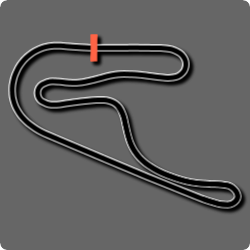
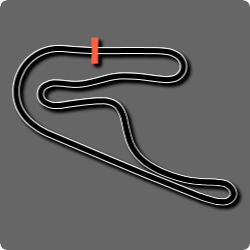
Added option to change dot size on the Track Map

Changed region(s): [[0.028, 0.112, 1.0, 0.868], [0.476, 0.504, 0.504, 0.532]]

diff --git a/Plugin/SettingsControl.xaml b/Plugin/SettingsControl.xaml
@@ -257,6 +257,11 @@
 
                 <styles:SHSection Title="TRACK MAP OVERLAY OPTIONS" ShowSeparator="True">
                     <StackPanel HorizontalAlignment="Left">
+                        <StackPanel Orientation="Horizontal">
+                            <ui:TitledSlider Width="400" Title="Dot Radius (%)" Maximum="100" Minimum="0" Value="{Binding Plugin.Modules[TrackMapModule].Settings.DotRadius, Mode=TwoWay, UpdateSourceTrigger=PropertyChanged}" ToolTip="Radius size of the car dots on the map" />
+                            <ui:TitledSlider Width="400" Title="Font Size (%)" Maximum="100" Minimum="0" Value="{Binding Plugin.Modules[TrackMapModule].Settings.FontSize, Mode=TwoWay, UpdateSourceTrigger=PropertyChanged}" ToolTip="Font size on the car dots on the map" />
+                        </StackPanel>
+                        
                         <ui:TitledSlider Width="800" Title="Background Opacity (%)" Maximum="100" Minimum="0" Value="{Binding Plugin.Modules[TrackMapModule].Settings.BackgroundOpacity, Mode=TwoWay, UpdateSourceTrigger=PropertyChanged}" />
                     </StackPanel>
                 </styles:SHSection>

diff --git a/Plugin/Modules/TrackMap.cs b/Plugin/Modules/TrackMap.cs
@@ -24,6 +24,8 @@ namespace benofficial2.Plugin
 {
     public class TrackMapSettings : ModuleSettings
     {
+        public int DotRadius { get; set; } = 40;
+        public int FontSize { get; set; } = 40;
         public int BackgroundOpacity { get; set; } = 0;
     }
 
@@ -34,6 +36,8 @@ namespace benofficial2.Plugin
         public override void Init(PluginManager pluginManager, benofficial2 plugin)
         {
             Settings = plugin.ReadCommonSettings<TrackMapSettings>("TrackMapSettings", () => new TrackMapSettings());
+            plugin.AttachDelegate(name: "TrackMap.DotRadius", valueProvider: () => Settings.DotRadius);
+            plugin.AttachDelegate(name: "TrackMap.FontSize", valueProvider: () => Settings.FontSize);
             plugin.AttachDelegate(name: "TrackMap.BackgroundOpacity", valueProvider: () => Settings.BackgroundOpacity);
         }
 
